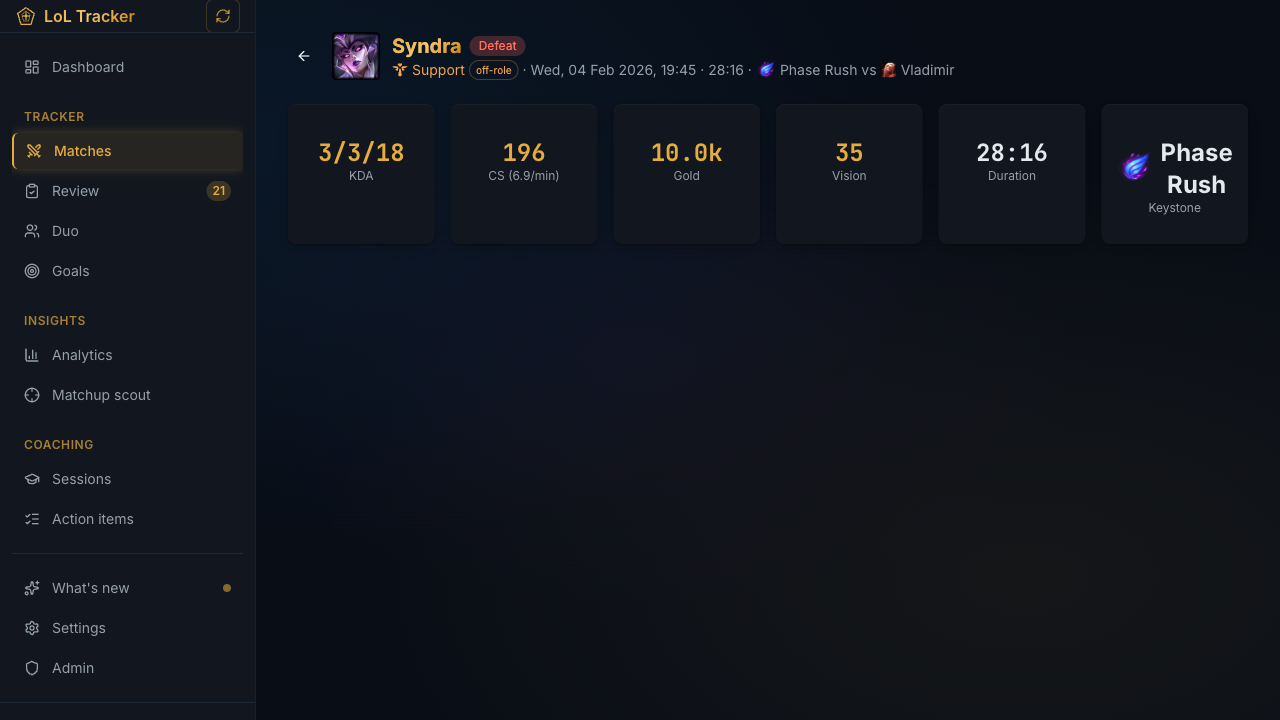
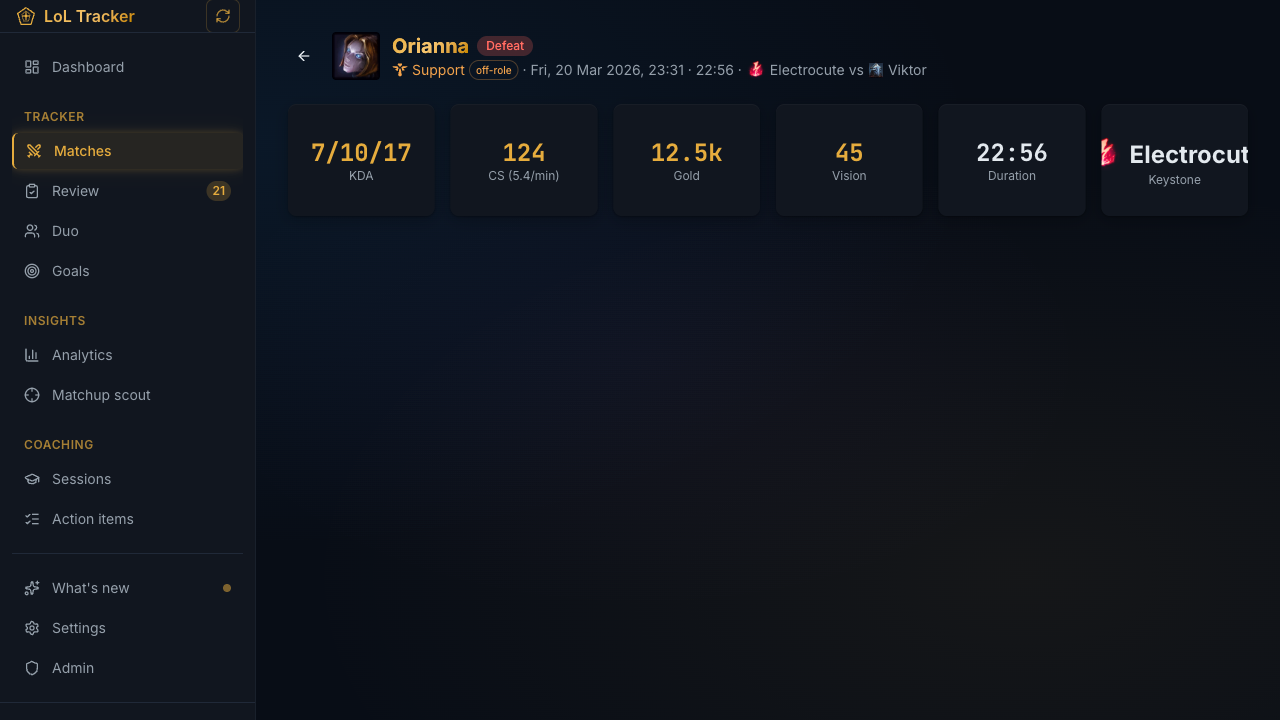
Refine off-role visuals: grey stripes at 10% opacity, updated annotated screenshots

diff --git a/src/components/match-card.tsx b/src/components/match-card.tsx
@@ -154,7 +154,7 @@ export function MatchCard({
     <TooltipProvider>
       <Link
         href={`/matches/${match.id}`}
-        className={`hover-lift block rounded-lg border bg-card transition-all hover:bg-surface-elevated/50 ${resultBgTint(match.result)}${isOffRole ? " border-l-2 border-dashed border-warning/20 border-l-warning/50 bg-muted/30" : ""}`}
+        className={`hover-lift block rounded-lg border bg-card transition-all hover:bg-surface-elevated/50 ${isOffRole ? "off-role-stripes" : resultBgTint(match.result)}`}
       >
         <div className={`flex items-center gap-3 ${isCompact ? "px-3 py-2" : "px-4 py-3"}`}>
           {/* Result bar */}

diff --git a/src/app/globals.css b/src/app/globals.css
@@ -516,6 +516,26 @@
       0 8px 24px oklch(0 0 0 / 0.25);
   }
 
+  /* Off-role match card stripe overlay */
+  .off-role-stripes {
+    position: relative;
+    overflow: hidden;
+  }
+  .off-role-stripes::before {
+    content: "";
+    position: absolute;
+    inset: 0;
+    background: repeating-linear-gradient(
+      -45deg,
+      transparent,
+      transparent 6px,
+      oklch(0.5 0 0 / 0.1) 6px,
+      oklch(0.5 0 0 / 0.1) 12px
+    );
+    pointer-events: none;
+    border-radius: inherit;
+  }
+
   /* Entrance animation for page sections */
   .animate-in-up {
     animation: fade-in-up 0.35s ease-out both;
